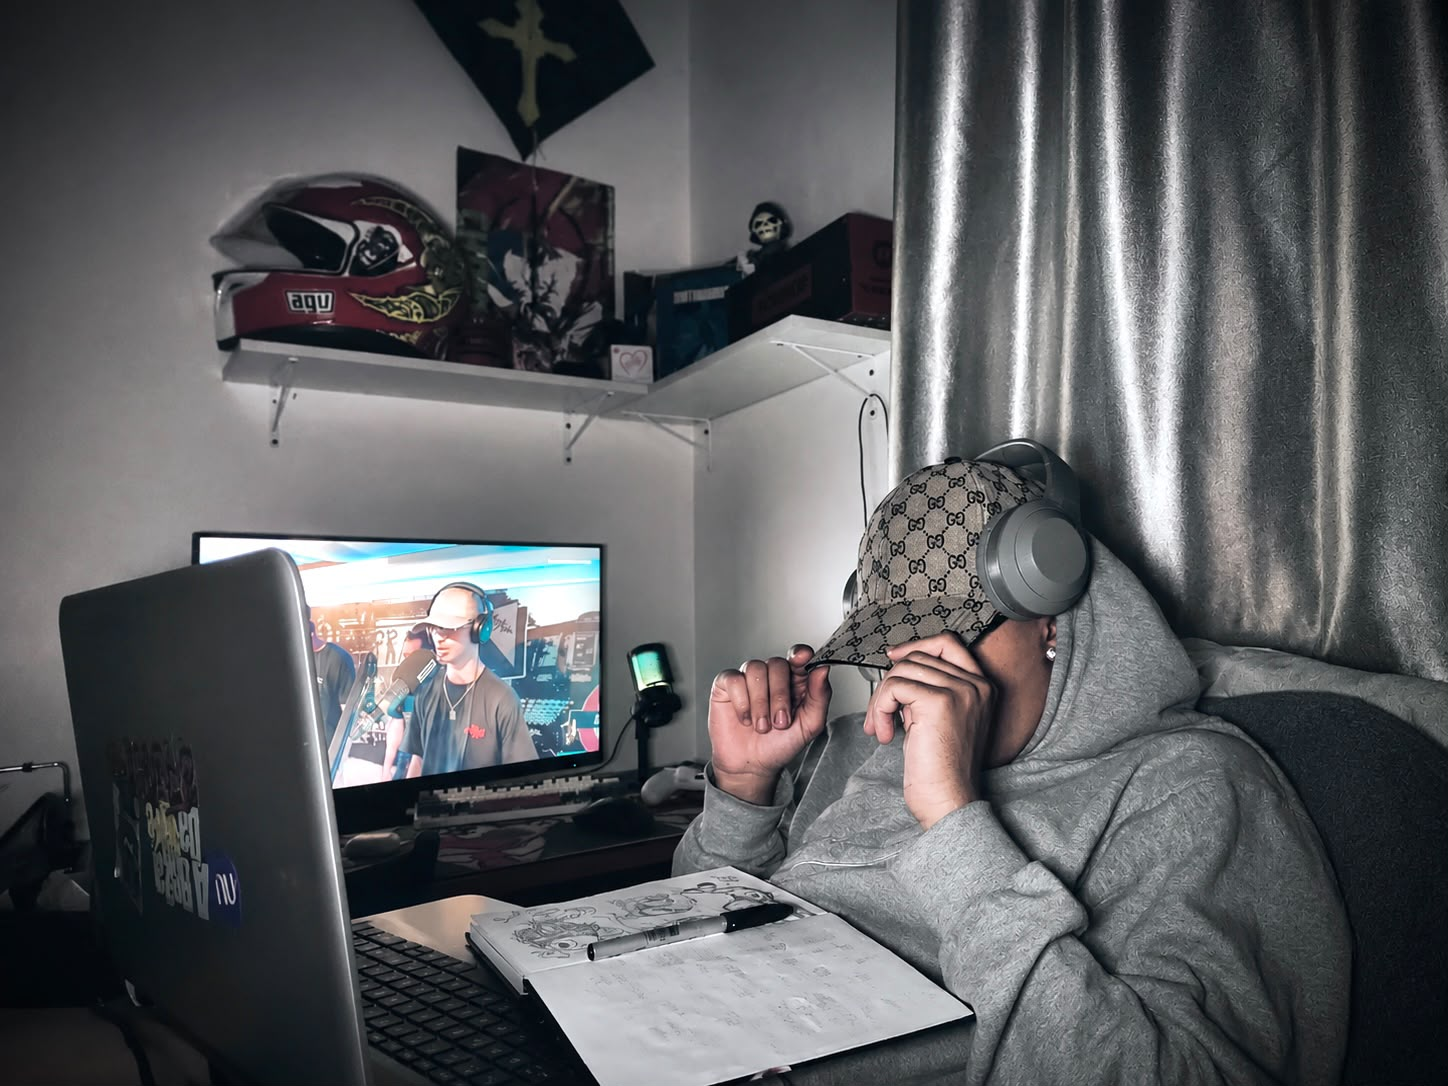
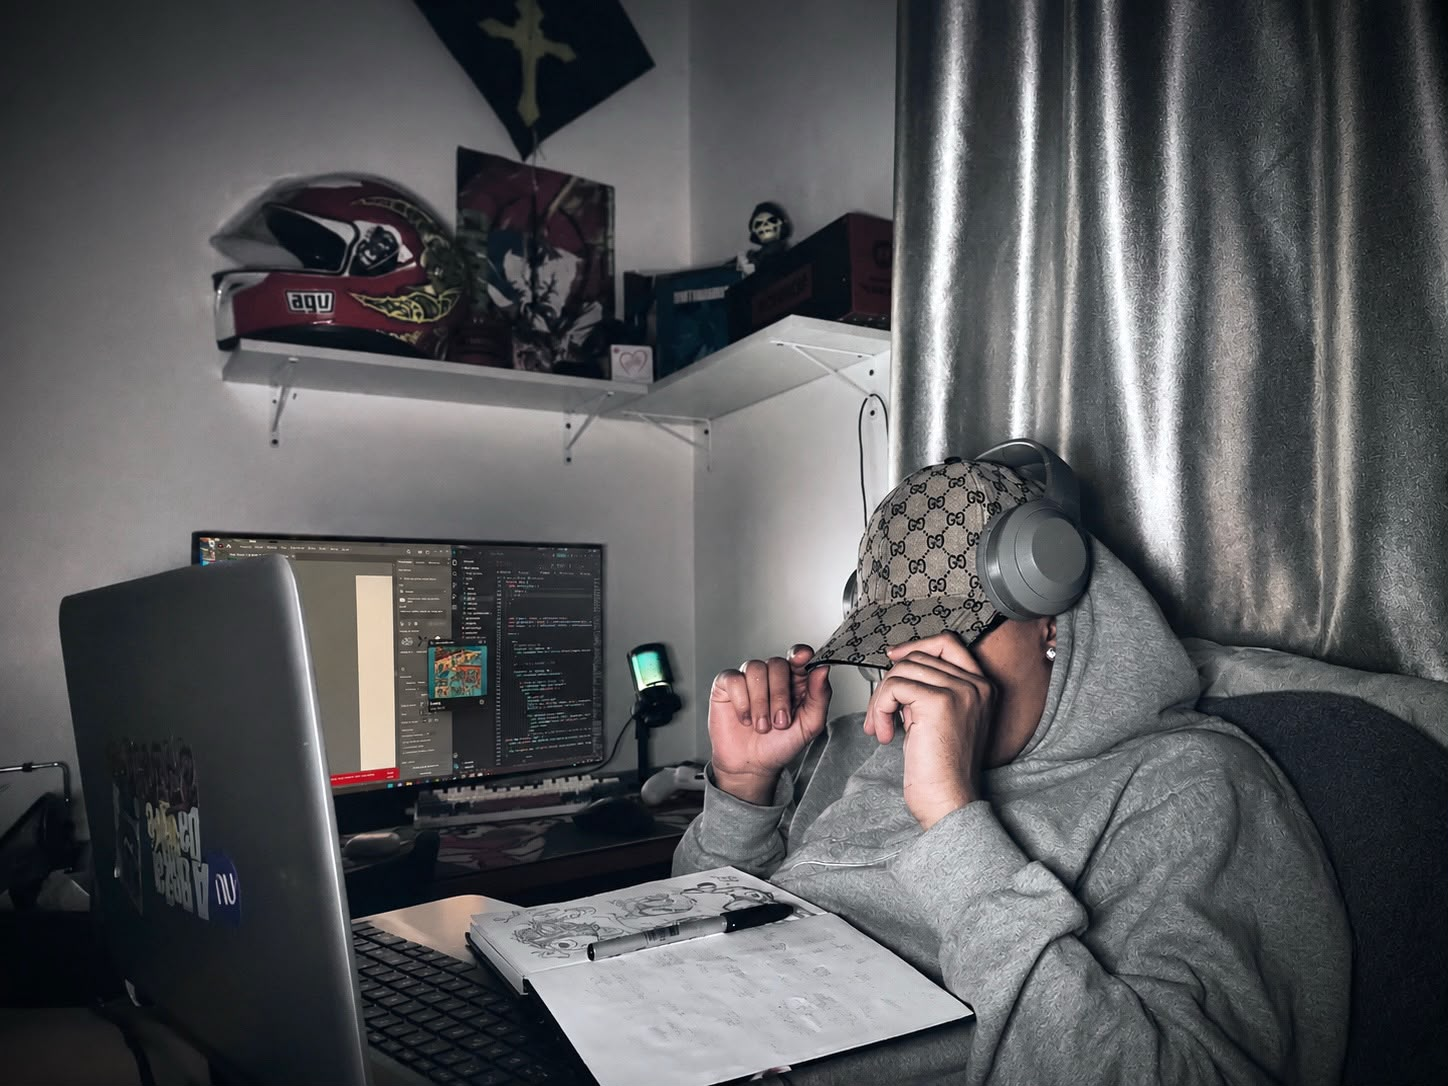
fff

Changed region(s): [[0.1243, 0.4862, 0.4351, 0.7293]]

diff --git a/src/App.css b/src/App.css
@@ -55,7 +55,7 @@ body {
   border-radius: 18px;
   border: 1px solid #ccc;
   box-shadow: 0 -5px 20px rgba(0,0,0,0.15);
-  transition: all 0.4s cubic-bezier(0.40, 0.8, 0.25, 1);
+  transition: all 0.4s cubic-bezier(0.25, 0.8, 0.25, 1);
   cursor: pointer;
   overflow: hidden;
   transform-origin: center bottom;
@@ -152,7 +152,17 @@ body {
 
 /* --- TELAS INTERNAS --- */
 .window-overlay { position: fixed; top: 0; left: 0; right: 0; bottom: 0; background: rgba(255,255,255,0.6); backdrop-filter: blur(8px); z-index: 100; display: flex; justify-content: center; align-items: center; }
-.mac-window { background: white; border-radius: 12px; box-shadow: 0 20px 60px rgba(0,0,0,0.2); display: flex; flex-direction: column; overflow: hidden; position: relative; }
+.mac-window { 
+  background: white; 
+  border-radius: 30px; 
+  box-shadow: 0 20px 60px rgba(0,0,0,0.2); 
+  display: flex; 
+  flex-direction: column; 
+  overflow: hidden; 
+  position: relative;
+  height: 85vh;        /* Força a janela a ocupar 85% da altura da tela */
+  max-height: 85vh; 
+}
 .title-bar { height: 40px; background: #f3f3f3; border-bottom: 1px solid #ddd; display: flex; align-items: center; padding: 0 15px; gap: 8px; }
 .dot { width: 12px; height: 12px; border-radius: 50%; }
 .red { background: #ff5f57; cursor: pointer; } .yellow { background: #febc2e; } .green { background: #28c840; }

diff --git a/src/App.jsx b/src/App.jsx
@@ -656,7 +656,7 @@ Instagram
 {telaAtual === 'grid_projetos' && (
   <div className="window-overlay">
     {/* Adicionei flex e flex-col para separar a barra de título do conteúdo */}
-    <div className="mac-window" style={{ width: '900px', height: '95vh', display: 'flex', flexDirection: 'column' }}>
+   <div className="mac-window" style={{ width: '380px' }}>
       
       <div className="title-bar">
         <div className="dot red" onClick={() => setTelaAtual('desktop')}></div>
